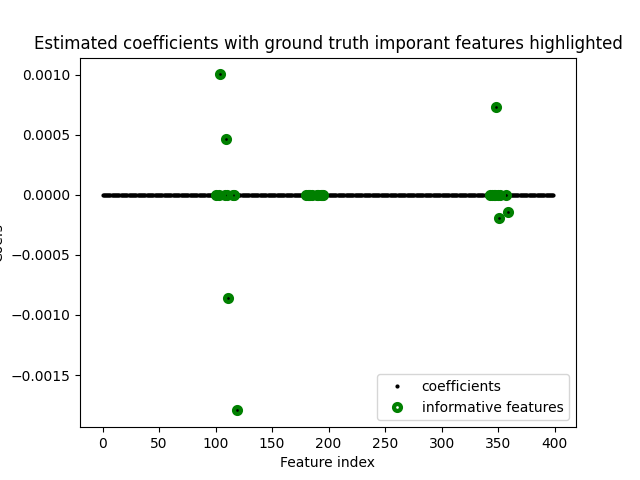
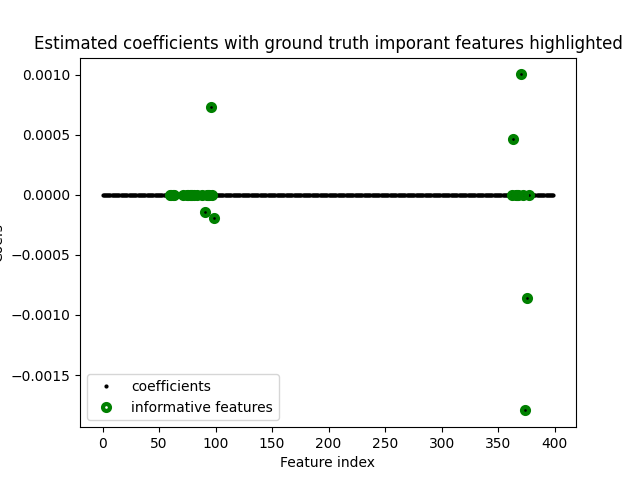
Deploying to gh-pages from  @ 14db937ca17723bd27f4d7b59368d16c78d54d2b 🚀

diff --git a/searchindex.js b/searchindex.js
@@ -1,1 +1,1 @@
-Search.setIndex({docnames:["api","auto_examples/index","auto_examples/plot_classifier","auto_examples/sg_execution_times","contributing","getting_help","index","install","user_guide"],envversion:{"sphinx.domains.c":2,"sphinx.domains.changeset":1,"sphinx.domains.citation":1,"sphinx.domains.cpp":3,"sphinx.domains.index":1,"sphinx.domains.javascript":2,"sphinx.domains.math":2,"sphinx.domains.python":2,"sphinx.domains.rst":2,"sphinx.domains.std":1,"sphinx.ext.intersphinx":1,"sphinx.ext.viewcode":1,sphinx:56},filenames:["api.rst","auto_examples/index.rst","auto_examples/plot_classifier.rst","auto_examples/sg_execution_times.rst","contributing.rst","getting_help.rst","index.rst","install.rst","user_guide.rst"],objects:{"groupyr.datasets":{make_group_classification:[0,1,1,""],make_group_regression:[0,1,1,""]},groupyr:{LogisticSGL:[0,0,1,""],LogisticSGLCV:[0,0,1,""],SGL:[0,0,1,""],SGLCV:[0,0,1,""]}},objnames:{"0":["py","class","Python class"],"1":["py","function","Python function"]},objtypes:{"0":"py:class","1":"py:function"},terms:{"001":0,"100":[0,2],"1000":0,"103":2,"104":2,"10618600":0,"108":[2,6],"1080":0,"109":2,"110":2,"111":2,"115":2,"116":2,"119":2,"122":6,"1283339":6,"180":2,"182":2,"183":2,"184":2,"185":2,"190":2,"191":2,"193":2,"194":2,"195":2,"2003":0,"2011":6,"2012":0,"2013":6,"2020":6,"231":[0,6],"245":[0,6],"2825":6,"2830":6,"343":2,"345":2,"346":2,"347":2,"348":2,"350":2,"351":2,"352":2,"357":2,"359":2,"5281":6,"544":[2,3],"681250":0,"boolean":0,"case":0,"class":0,"default":0,"float":0,"function":0,"import":2,"int":0,"new":[5,7],"public":6,"return":0,"true":[0,2],"while":[0,8],And:6,For:0,The:[0,2,7],These:0,Use:0,Used:0,__init__:0,about:[0,5],accuracy_scor:0,across:0,actual:0,adapt:0,add:0,added:0,after:0,alfr:6,algorithm:0,all:[0,1,5,7],allow:5,along:0,alpha:[0,6],alpha_:0,alpha_max:0,alpha_min:0,alphas_:0,also:[0,4],altern:7,amount:0,ani:[0,5],appli:0,appreci:6,appropri:[0,4],arang:2,arbitrari:0,ariel:6,around:0,arrai:0,ask:5,assign:[0,6],attribut:0,auto_exampl:3,auto_examples_jupyt:1,auto_examples_python:1,automat:0,avail:4,balanc:0,basic:6,becaus:0,befor:[0,5],belong:[0,6],benchmark:0,best:[0,2],beta:6,betti:6,between:[0,6],bia:0,bibtex:6,bioengin:6,biomed:6,black:2,bool:0,borrow:6,both:6,bug:5,built:0,buitnick:6,button:5,calcul:0,call:0,callabl:0,can:[0,5,6,7],canon:0,capabl:0,center:0,character:6,choic:0,chosen:0,chosen_features_:2,citat:6,class_sep:0,classes_:0,classif:0,classifi:0,click:[2,5],clone:7,close:0,cluster:0,code:[1,2,7],coef:[0,2],coef_:[0,2],coeffici:[0,2,6],collabor:[4,6],column:6,com:7,combin:[0,6],compar:2,compat:[0,6],compos:0,composit:6,compris:0,compromis:0,comput:[0,6],constant:0,construct:0,contain:0,context:0,contigu:0,contrast:0,contribut:7,control:6,converg:0,copi:0,copt:6,copy_x:0,cost:0,covari:[0,6],cpu:0,creat:0,credit:4,criterion:0,data:[0,5,6],dataset:2,decis:0,depend:[0,7],descent:0,design:[0,6],detail:[4,6],determin:0,develop:[4,6],deviat:0,differ:0,dimens:0,dimension:[0,6],distribut:0,divid:0,document:0,doi:[0,6],download:[1,2],drawn:0,duplic:0,dure:0,each:0,easier:0,ecml:6,edit:8,effect:0,effective_rank:0,effici:0,elasticnet:0,eleftherio:6,element:0,ell:6,els:0,encod:0,encourag:0,entri:6,eps:[0,2],equal:0,error:0,escienc:6,estim:[2,6],ethic:5,evalu:0,examin:5,exampl:[0,2,7],exce:0,exchang:0,execut:3,expect:0,experi:[0,6],explain:0,face:5,facilit:6,factor:0,fals:0,featur:[0,2,6,7],features_per_group:0,file:3,find:0,fit:[0,2,6],fit_intercept:0,flag:0,flip:6,flip_i:0,fold:0,formula:0,foundat:6,frac:6,fraction:0,friedman:[0,6],from:[0,2,4,6,7],full:2,further:[0,6,7],galleri:[1,2,6,7],garyfallidi:6,gaussian:0,gener:2,giant:0,git:7,github:[5,7],give:[0,6],global:6,going:5,good:0,gordon:6,gradient:0,grant:6,graphic:[0,6],green:2,grid:0,ground:2,group:[1,3],group_length:0,groupyr:[0,2,7],guid:[0,7],guidelin:[4,7],guyon:0,halford:6,happen:0,harder:0,has:0,hasti:[0,6],hat:6,have:0,heavili:6,here:[0,2,4],high:6,highlight:2,hot:0,how:[5,6,7],http:7,hyper:0,hypercub:0,hyperparamet:[0,6],idx:2,ignor:0,imag:6,implement:6,impor:2,includ:[0,7],include_solver_trac:0,independ:0,index:2,indiana:6,indic:[0,2],infer:0,inform:[0,2,5,6,7],initi:0,input:0,instal:[5,6],instanc:0,institut:6,instruct:6,integ:0,intend:[0,6],intercept:0,intercept_:0,interdepend:0,introduc:0,introductori:[1,6],ipynb:2,issu:[5,8],iter:0,its:[6,7],jerom:0,joblib:0,journal:[0,6],jupyt:[1,2],just:0,kfold:0,know:5,known:0,l1_ratio:[0,2],l1_ratio_:0,label:[0,2],lambda:6,languag:6,larger:0,lasso:[1,3],last:0,learn:[0,6],legend:2,len:0,length:[0,6],less:7,librari:6,licens:[4,6],like:[0,7],linear:[0,6],linearli:0,list:0,loc:2,locat:0,logist:[0,1,3],logistic_sgl_path:0,logisticsgl:0,logisticsglcv:[0,2],logo:6,look:[0,6],machin:6,madelon:0,mai:[0,7],make:[0,5],make_blob:0,make_classif:0,make_group_classif:[0,2],make_group_regress:0,make_multilabel_classif:0,make_regress:0,marker:2,mathbf:6,matplotlib:2,matrix:[0,6],max_it:0,maximum:0,mean:[0,4],mec:2,membership:0,method:0,metric:0,mew:2,mfc:2,might:5,mild:0,min_:6,mine:6,minut:2,model:[0,2,6],moor:6,more:0,mse_path_:0,multilabel:0,multipl:0,multipli:0,must:6,n_alpha:[0,2],n_class:[0,2],n_clusters_per_class:0,n_featur:[0,2],n_features_per_group:[0,2],n_fold:0,n_group:[0,2],n_inform:0,n_informative_group:[0,2],n_informative_per_group:[0,2],n_iter_:0,n_job:0,n_l1_ratio:0,n_redund:0,n_redundant_per_group:[0,2],n_repeat:0,n_repeated_per_group:[0,2],n_sampl:[0,2],n_target:0,narayan:6,nation:6,ndarrai:0,need:5,neurosci:6,next:7,nih:6,nine:0,nip:0,noah:0,nois:0,non:[0,2],none:[0,2],norm:0,normal:[0,6],note:0,notebook:[1,2],number:[0,6],numpi:[0,2],object:0,often:5,one:0,onli:0,open:[4,8],oper:5,optim:[0,6],option:0,order:0,other:0,our:[4,5],out:[0,2],output:0,outsid:4,overal:0,overlap:0,overwritten:0,own:8,page:[5,6],parallel_backend:0,paramet:0,partit:0,pass:0,path:0,patient:8,pedregosa:6,penal:[0,6],penalti:[0,6],per:0,pertin:5,pgd:0,pip:7,pkdd:6,place:0,pleas:[0,5,8],plot:2,plot_classifi:[2,3],plt:2,point:0,polytop:0,posit:0,possibl:0,post:5,predefin:6,predict:0,predictor:0,preprocess:0,previou:0,primari:0,print:2,prior:0,problem:[0,6],procedur:5,processor:0,produc:0,project:[4,6],promot:6,proport:0,provid:[0,5],proxim:0,pseudo:0,put:0,pypi:7,pyplot:2,python:[1,2,7],r01eb027585:6,randal:6,random:0,random_st:[0,2],randomli:0,randomst:0,reach:0,recommend:7,redund:0,regress:[0,2,6],regressor:0,regular:[0,6],relat:6,relationship:6,reli:6,remain:0,repeat:0,repositori:[5,7],reproduc:0,requir:7,research:[4,6],result:0,reus:0,richford:7,richi:6,robert:0,rokem:6,root:0,routin:0,run:[0,2,5],same:0,sampl:[0,5],satisfi:6,scale:[0,2],scale_l2_bi:0,scientif:6,scikit:[0,6],score:0,scorer:0,scoring_path_:0,script:2,search:0,second:2,see:[0,4,6,7],seed:0,select:0,send:5,set:[0,6],sgl:0,sgl_path:0,sglcv:0,shape:[0,2],share:5,shift:0,should:0,show:2,shuffl:0,side:0,signal:[1,3],signatur:0,silhouett:6,simon:[0,6],simplifi:0,simul:2,singular:0,size:0,sklearn:0,sloan:6,small:5,softwar:[4,5,6],solut:0,solv:0,solver:[0,6],some:0,sourc:[0,1,2,4,7],spars:[1,3],sparsiti:[0,6],specifi:0,sphinx:[1,2],split:0,splitter:0,spread:0,sqrt:6,squar:0,stabl:7,stack:0,standard:0,standardscal:0,start:0,statist:[0,6],std:0,stop:0,strategi:0,strength:[0,6],string:0,strong:0,studi:5,submatrix:6,subspac:0,subtract:0,suggest:8,sum:0,sum_:6,supervis:6,support:6,suppress:0,suppress_solver_warn:0,sure:5,synthet:0,system:5,target:6,task:0,tbd:6,techniqu:0,templat:6,term:0,test:0,than:0,thei:0,therefor:6,thi:[0,4,5,7,8],three:0,through:6,tibshirani:[0,6],time:2,titl:2,tol:[0,2],toler:0,total:[0,2,3,6],train:0,trevor:0,truth:2,tune:0,type:0,univers:6,unless:0,unrel:0,unshuffl:0,updat:[0,8],usag:6,use:[0,4,6,7],used:0,useful:0,useful_indic:[0,2],useless:0,user:[0,7],uses:0,using:[0,6,7],valu:0,vari:0,variabl:[0,6],variant:0,variou:0,vector:[0,6],verbos:0,version:[0,5],vertic:0,via:0,vol:0,wai:7,warm:0,warm_start:0,warn:0,washington:6,weight:0,welcom:4,well:[5,6],what:5,when:0,where:[0,2,6],whether:0,which:0,whose:0,wise:[0,6],wish:0,within:0,workshop:6,would:[0,6,7],xlabel:2,yield:[0,6],ylabel:2,you:[0,4,5,6,7],your:[5,8],zenodo:6,zero:[0,2],zip:1},titles:["API Reference","General examples","Logistic Sparse Group Lasso for grouped sparse signals","Computation times","Contributing to <em>groupyr</em>","Getting help using <em>groupyr</em>","Groupyr: Sparse Group Lasso in Python","Installation","User guide : contents"],titleterms:{The:6,acknowledg:6,api:[0,6],cite:6,comput:3,construct:8,contribut:4,cross:0,dataset:0,develop:7,document:6,estim:0,exampl:[1,6],gener:[0,1],get:[5,6],group:[0,2,6],groupyr:[4,5,6],guid:[6,8],help:5,instal:7,lasso:[0,2,6],logist:2,python:6,refer:[0,6],releas:7,signal:2,spars:[0,2,6],start:6,time:3,under:8,user:[6,8],using:5,valid:0,version:7}})
+Search.setIndex({docnames:["api","auto_examples/index","auto_examples/plot_classifier","auto_examples/sg_execution_times","contributing","getting_help","index","install","user_guide"],envversion:{"sphinx.domains.c":2,"sphinx.domains.changeset":1,"sphinx.domains.citation":1,"sphinx.domains.cpp":3,"sphinx.domains.index":1,"sphinx.domains.javascript":2,"sphinx.domains.math":2,"sphinx.domains.python":2,"sphinx.domains.rst":2,"sphinx.domains.std":1,"sphinx.ext.intersphinx":1,"sphinx.ext.viewcode":1,sphinx:56},filenames:["api.rst","auto_examples/index.rst","auto_examples/plot_classifier.rst","auto_examples/sg_execution_times.rst","contributing.rst","getting_help.rst","index.rst","install.rst","user_guide.rst"],objects:{"groupyr.datasets":{make_group_classification:[0,1,1,""],make_group_regression:[0,1,1,""]},groupyr:{LogisticSGL:[0,0,1,""],LogisticSGLCV:[0,0,1,""],SGL:[0,0,1,""],SGLCV:[0,0,1,""]}},objnames:{"0":["py","class","Python class"],"1":["py","function","Python function"]},objtypes:{"0":"py:class","1":"py:function"},terms:{"001":0,"100":[0,2],"1000":0,"10618600":0,"108":6,"1080":0,"122":6,"1283339":6,"2003":0,"2011":6,"2012":0,"2013":6,"2020":6,"231":[0,6],"245":[0,6],"260":[2,3],"2825":6,"2830":6,"362":2,"363":2,"366":2,"367":2,"368":2,"370":2,"372":2,"374":2,"376":2,"377":2,"5281":6,"681250":0,"boolean":0,"case":0,"class":0,"default":0,"float":0,"function":0,"import":2,"int":0,"new":[5,7],"public":6,"return":0,"true":[0,2],"while":[0,8],And:6,For:0,The:[0,2,7],These:0,Use:0,Used:0,__init__:0,about:[0,5],accuracy_scor:0,across:0,actual:0,adapt:0,add:0,added:0,after:0,alfr:6,algorithm:0,all:[0,1,5,7],allow:5,along:0,alpha:[0,6],alpha_:0,alpha_max:0,alpha_min:0,alphas_:0,also:[0,4],altern:7,amount:0,ani:[0,5],appli:0,appreci:6,appropri:[0,4],arang:2,arbitrari:0,ariel:6,around:0,arrai:0,ask:5,assign:[0,6],attribut:0,auto_exampl:3,auto_examples_jupyt:1,auto_examples_python:1,automat:0,avail:4,balanc:0,basic:6,becaus:0,befor:[0,5],belong:[0,6],benchmark:0,best:[0,2],beta:6,betti:6,between:[0,6],bia:0,bibtex:6,bioengin:6,biomed:6,black:2,bool:0,borrow:6,both:6,bug:5,built:0,buitnick:6,button:5,calcul:0,call:0,callabl:0,can:[0,5,6,7],canon:0,capabl:0,center:0,character:6,choic:0,chosen:0,chosen_features_:2,citat:6,class_sep:0,classes_:0,classif:0,classifi:0,click:[2,5],clone:7,close:0,cluster:0,code:[1,2,7],coef:[0,2],coef_:[0,2],coeffici:[0,2,6],collabor:[4,6],column:6,com:7,combin:[0,6],compar:2,compat:[0,6],compos:0,composit:6,compris:0,compromis:0,comput:[0,6],constant:0,construct:0,contain:0,context:0,contigu:0,contrast:0,contribut:7,control:6,converg:0,copi:0,copt:6,copy_x:0,cost:0,covari:[0,6],cpu:0,creat:0,credit:4,criterion:0,data:[0,5,6],dataset:2,decis:0,depend:[0,7],descent:0,design:[0,6],detail:[4,6],determin:0,develop:[4,6],deviat:0,differ:0,dimens:0,dimension:[0,6],distribut:0,divid:0,document:0,doi:[0,6],download:[1,2],drawn:0,duplic:0,dure:0,each:0,easier:0,ecml:6,edit:8,effect:0,effective_rank:0,effici:0,elasticnet:0,eleftherio:6,element:0,ell:6,els:0,encod:0,encourag:0,entri:6,eps:[0,2],equal:0,error:0,escienc:6,estim:[2,6],ethic:5,evalu:0,examin:5,exampl:[0,2,7],exce:0,exchang:0,execut:3,expect:0,experi:[0,6],explain:0,face:5,facilit:6,factor:0,fals:0,featur:[0,2,6,7],features_per_group:0,file:3,find:0,fit:[0,2,6],fit_intercept:0,flag:0,flip:6,flip_i:0,fold:0,formula:0,foundat:6,frac:6,fraction:0,friedman:[0,6],from:[0,2,4,6,7],full:2,further:[0,6,7],galleri:[1,2,6,7],garyfallidi:6,gaussian:0,gener:2,giant:0,git:7,github:[5,7],give:[0,6],global:6,going:5,good:0,gordon:6,gradient:0,grant:6,graphic:[0,6],green:2,grid:0,ground:2,group:[1,3],group_length:0,groupyr:[0,2,7],guid:[0,7],guidelin:[4,7],guyon:0,halford:6,happen:0,harder:0,has:0,hasti:[0,6],hat:6,have:0,heavili:6,here:[0,2,4],high:6,highlight:2,hot:0,how:[5,6,7],http:7,hyper:0,hypercub:0,hyperparamet:[0,6],idx:2,ignor:0,imag:6,implement:6,impor:2,includ:[0,7],include_solver_trac:0,independ:0,index:2,indiana:6,indic:[0,2],infer:0,inform:[0,2,5,6,7],initi:0,input:0,instal:[5,6],instanc:0,institut:6,instruct:6,integ:0,intend:[0,6],intercept:0,intercept_:0,interdepend:0,introduc:0,introductori:[1,6],ipynb:2,issu:[5,8],iter:0,its:[6,7],jerom:0,joblib:0,journal:[0,6],jupyt:[1,2],just:0,kfold:0,know:5,known:0,l1_ratio:[0,2],l1_ratio_:0,label:[0,2],lambda:6,languag:6,larger:0,lasso:[1,3],last:0,learn:[0,6],legend:2,len:0,length:[0,6],less:7,librari:6,licens:[4,6],like:[0,7],linear:[0,6],linearli:0,list:0,loc:2,locat:0,logist:[0,1,3],logistic_sgl_path:0,logisticsgl:0,logisticsglcv:[0,2],logo:6,look:[0,6],machin:6,madelon:0,mai:[0,7],make:[0,5],make_blob:0,make_classif:0,make_group_classif:[0,2],make_group_regress:0,make_multilabel_classif:0,make_regress:0,marker:2,mathbf:6,matplotlib:2,matrix:[0,6],max_it:0,maximum:0,mean:[0,4],mec:2,membership:0,method:0,metric:0,mew:2,mfc:2,might:5,mild:0,min_:6,mine:6,minut:2,model:[0,2,6],moor:6,more:0,mse_path_:0,multilabel:0,multipl:0,multipli:0,must:6,n_alpha:[0,2],n_class:[0,2],n_clusters_per_class:0,n_featur:[0,2],n_features_per_group:[0,2],n_fold:0,n_group:[0,2],n_inform:0,n_informative_group:[0,2],n_informative_per_group:[0,2],n_iter_:0,n_job:0,n_l1_ratio:0,n_redund:0,n_redundant_per_group:[0,2],n_repeat:0,n_repeated_per_group:[0,2],n_sampl:[0,2],n_target:0,narayan:6,nation:6,ndarrai:0,need:5,neurosci:6,next:7,nih:6,nine:0,nip:0,noah:0,nois:0,non:[0,2],none:[0,2],norm:0,normal:[0,6],note:0,notebook:[1,2],number:[0,6],numpi:[0,2],object:0,often:5,one:0,onli:0,open:[4,8],oper:5,optim:[0,6],option:0,order:0,other:0,our:[4,5],out:[0,2],output:0,outsid:4,overal:0,overlap:0,overwritten:0,own:8,page:[5,6],parallel_backend:0,paramet:0,partit:0,pass:0,path:0,patient:8,pedregosa:6,penal:[0,6],penalti:[0,6],per:0,pertin:5,pgd:0,pip:7,pkdd:6,place:0,pleas:[0,5,8],plot:2,plot_classifi:[2,3],plt:2,point:0,polytop:0,posit:0,possibl:0,post:5,predefin:6,predict:0,predictor:0,preprocess:0,previou:0,primari:0,print:2,prior:0,problem:[0,6],procedur:5,processor:0,produc:0,project:[4,6],promot:6,proport:0,provid:[0,5],proxim:0,pseudo:0,put:0,pypi:7,pyplot:2,python:[1,2,7],r01eb027585:6,randal:6,random:0,random_st:[0,2],randomli:0,randomst:0,reach:0,recommend:7,redund:0,regress:[0,2,6],regressor:0,regular:[0,6],relat:6,relationship:6,reli:6,remain:0,repeat:0,repositori:[5,7],reproduc:0,requir:7,research:[4,6],result:0,reus:0,richford:7,richi:6,robert:0,rokem:6,root:0,routin:0,run:[0,2,5],same:0,sampl:[0,5],satisfi:6,scale:[0,2],scale_l2_bi:0,scientif:6,scikit:[0,6],score:0,scorer:0,scoring_path_:0,script:2,search:0,second:2,see:[0,4,6,7],seed:0,select:0,send:5,set:[0,6],sgl:0,sgl_path:0,sglcv:0,shape:[0,2],share:5,shift:0,should:0,show:2,shuffl:0,side:0,signal:[1,3],signatur:0,silhouett:6,simon:[0,6],simplifi:0,simul:2,singular:0,size:0,sklearn:0,sloan:6,small:5,softwar:[4,5,6],solut:0,solv:0,solver:[0,6],some:0,sourc:[0,1,2,4,7],spars:[1,3],sparsiti:[0,6],specifi:0,sphinx:[1,2],split:0,splitter:0,spread:0,sqrt:6,squar:0,stabl:7,stack:0,standard:0,standardscal:0,start:0,statist:[0,6],std:0,stop:0,strategi:0,strength:[0,6],string:0,strong:0,studi:5,submatrix:6,subspac:0,subtract:0,suggest:8,sum:0,sum_:6,supervis:6,support:6,suppress:0,suppress_solver_warn:0,sure:5,synthet:0,system:5,target:6,task:0,tbd:6,techniqu:0,templat:6,term:0,test:0,than:0,thei:0,therefor:6,thi:[0,4,5,7,8],three:0,through:6,tibshirani:[0,6],time:2,titl:2,tol:[0,2],toler:0,total:[0,2,3,6],train:0,trevor:0,truth:2,tune:0,type:0,univers:6,unless:0,unrel:0,unshuffl:0,updat:[0,8],usag:6,use:[0,4,6,7],used:0,useful:0,useful_indic:[0,2],useless:0,user:[0,7],uses:0,using:[0,6,7],valu:0,vari:0,variabl:[0,6],variant:0,variou:0,vector:[0,6],verbos:0,version:[0,5],vertic:0,via:0,vol:0,wai:7,warm:0,warm_start:0,warn:0,washington:6,weight:0,welcom:4,well:[5,6],what:5,when:0,where:[0,2,6],whether:0,which:0,whose:0,wise:[0,6],wish:0,within:0,workshop:6,would:[0,6,7],xlabel:2,yield:[0,6],ylabel:2,you:[0,4,5,6,7],your:[5,8],zenodo:6,zero:[0,2],zip:1},titles:["API Reference","General examples","Logistic Sparse Group Lasso for grouped sparse signals","Computation times","Contributing to <em>groupyr</em>","Getting help using <em>groupyr</em>","Groupyr: Sparse Group Lasso in Python","Installation","User guide : contents"],titleterms:{The:6,acknowledg:6,api:[0,6],cite:6,comput:3,construct:8,contribut:4,cross:0,dataset:0,develop:7,document:6,estim:0,exampl:[1,6],gener:[0,1],get:[5,6],group:[0,2,6],groupyr:[4,5,6],guid:[6,8],help:5,instal:7,lasso:[0,2,6],logist:2,python:6,refer:[0,6],releas:7,signal:2,spars:[0,2,6],start:6,time:3,under:8,user:[6,8],using:5,valid:0,version:7}})

diff --git a/auto_examples/plot_classifier.html b/auto_examples/plot_classifier.html
@@ -185,10 +185,10 @@ ground-truth.</p>
 <img alt="Estimated coefficients with ground truth imporant features highlighted" class="sphx-glr-single-img" src="../_images/sphx_glr_plot_classifier_001.png" />
 <p class="sphx-glr-script-out">Out:</p>
 <div class="sphx-glr-script-out highlight-none notranslate"><div class="highlight"><pre><span></span>Indices of ground-truth informative features:
-[100 103 104 108 109 110 111 115 116 119 180 182 183 184 185 190 191 193
- 194 195 343 345 346 347 348 350 351 352 357 359]
+[ 60  61  62  63  71  75  76  77  78  79  81  84  88  91  92  93  94  96
+  97  99 362 363 366 367 368 370 372 374 376 377]
 Indices of non-zero estimated coefs:
-[100 104 109 111 119 348 351 359]
+[ 91  96  99 363 368 370 374 376]
 </pre></div>
 </div>
 <div class="line-block">
@@ -258,7 +258,7 @@ Indices of non-zero estimated coefs:
 <span class="nb">print</span><span class="p">(</span><a href="../api.html#groupyr.LogisticSGLCV" title="groupyr.LogisticSGLCV" class="sphx-glr-backref-module-groupyr sphx-glr-backref-type-py-class sphx-glr-backref-instance"><span class="n">model</span></a><span class="o">.</span><span class="n">chosen_features_</span><span class="p">)</span>
 </pre></div>
 </div>
-<p class="sphx-glr-timing"><strong>Total running time of the script:</strong> ( 1 minutes  33.544 seconds)</p>
+<p class="sphx-glr-timing"><strong>Total running time of the script:</strong> ( 2 minutes  0.260 seconds)</p>
 <div class="sphx-glr-footer class sphx-glr-footer-example docutils container" id="sphx-glr-download-auto-examples-plot-classifier-py">
 <div class="sphx-glr-download sphx-glr-download-python docutils container">
 <p><a class="reference download internal" download="" href="../_downloads/084669b45b226af6f637ab8457c8c5aa/plot_classifier.py"><code class="xref download docutils literal notranslate"><span class="pre">Download</span> <span class="pre">Python</span> <span class="pre">source</span> <span class="pre">code:</span> <span class="pre">plot_classifier.py</span></code></a></p>

diff --git a/auto_examples/sg_execution_times.html b/auto_examples/sg_execution_times.html
@@ -168,7 +168,7 @@
             
   <div class="section" id="computation-times">
 <span id="sphx-glr-auto-examples-sg-execution-times"></span><h1>Computation times<a class="headerlink" href="#computation-times" title="Permalink to this headline">¶</a></h1>
-<p><strong>01:33.544</strong> total execution time for <strong>auto_examples</strong> files:</p>
+<p><strong>02:00.260</strong> total execution time for <strong>auto_examples</strong> files:</p>
 <table class="docutils align-default">
 <colgroup>
 <col style="width: 80%" />
@@ -177,7 +177,7 @@
 </colgroup>
 <tbody>
 <tr class="row-odd"><td><p><a class="reference internal" href="plot_classifier.html#sphx-glr-auto-examples-plot-classifier-py"><span class="std std-ref">Logistic Sparse Group Lasso for grouped sparse signals</span></a> (<code class="docutils literal notranslate"><span class="pre">plot_classifier.py</span></code>)</p></td>
-<td><p>01:33.544</p></td>
+<td><p>02:00.260</p></td>
 <td><p>0.0 MB</p></td>
 </tr>
 </tbody>
